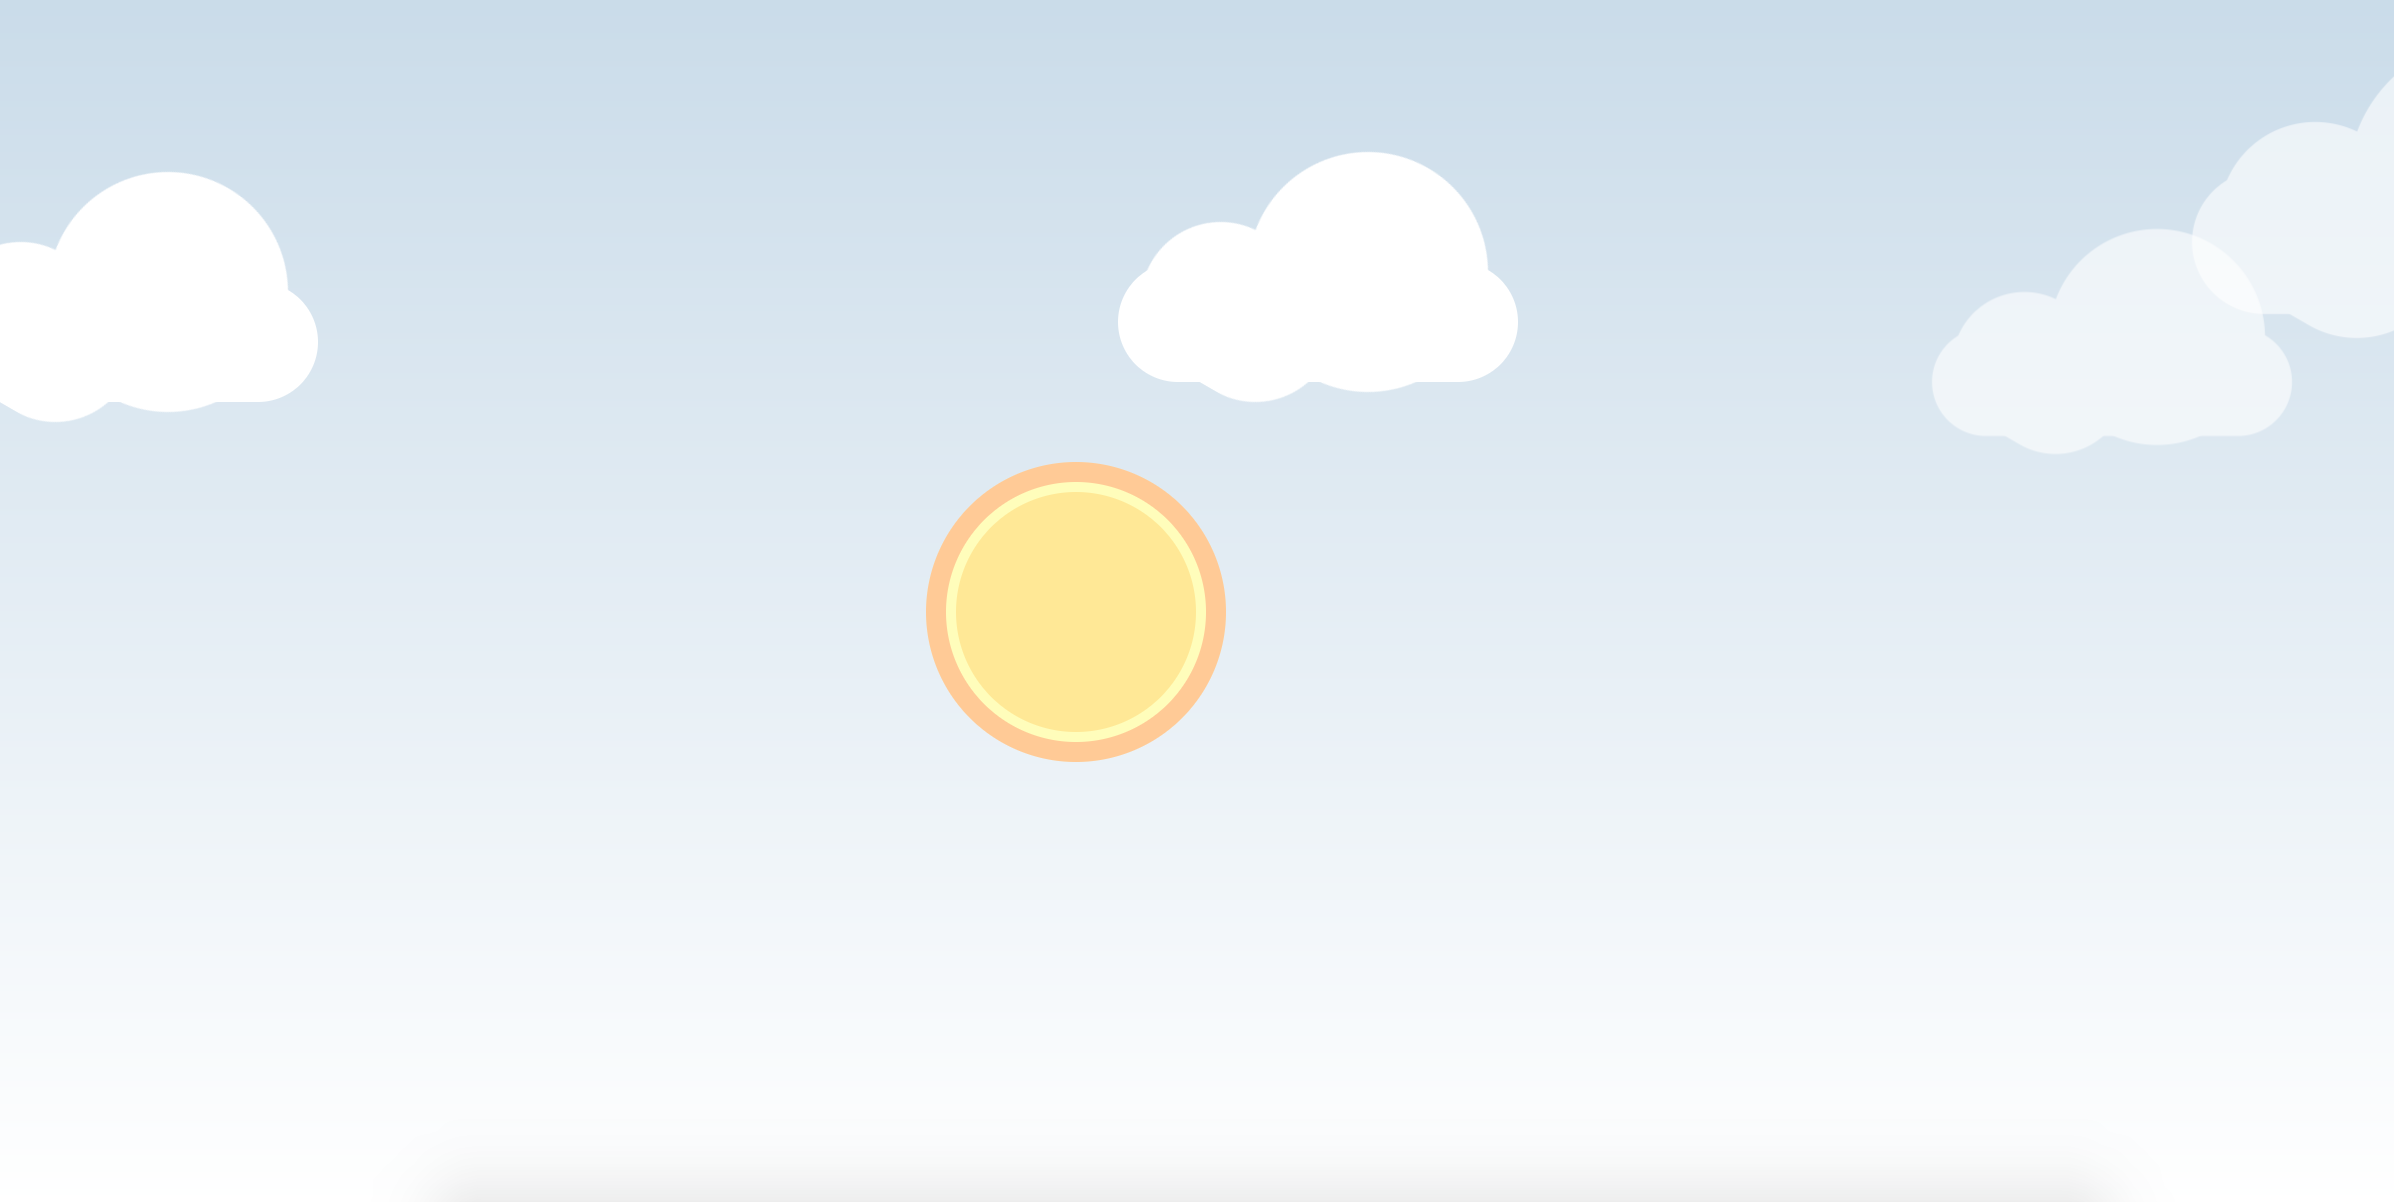
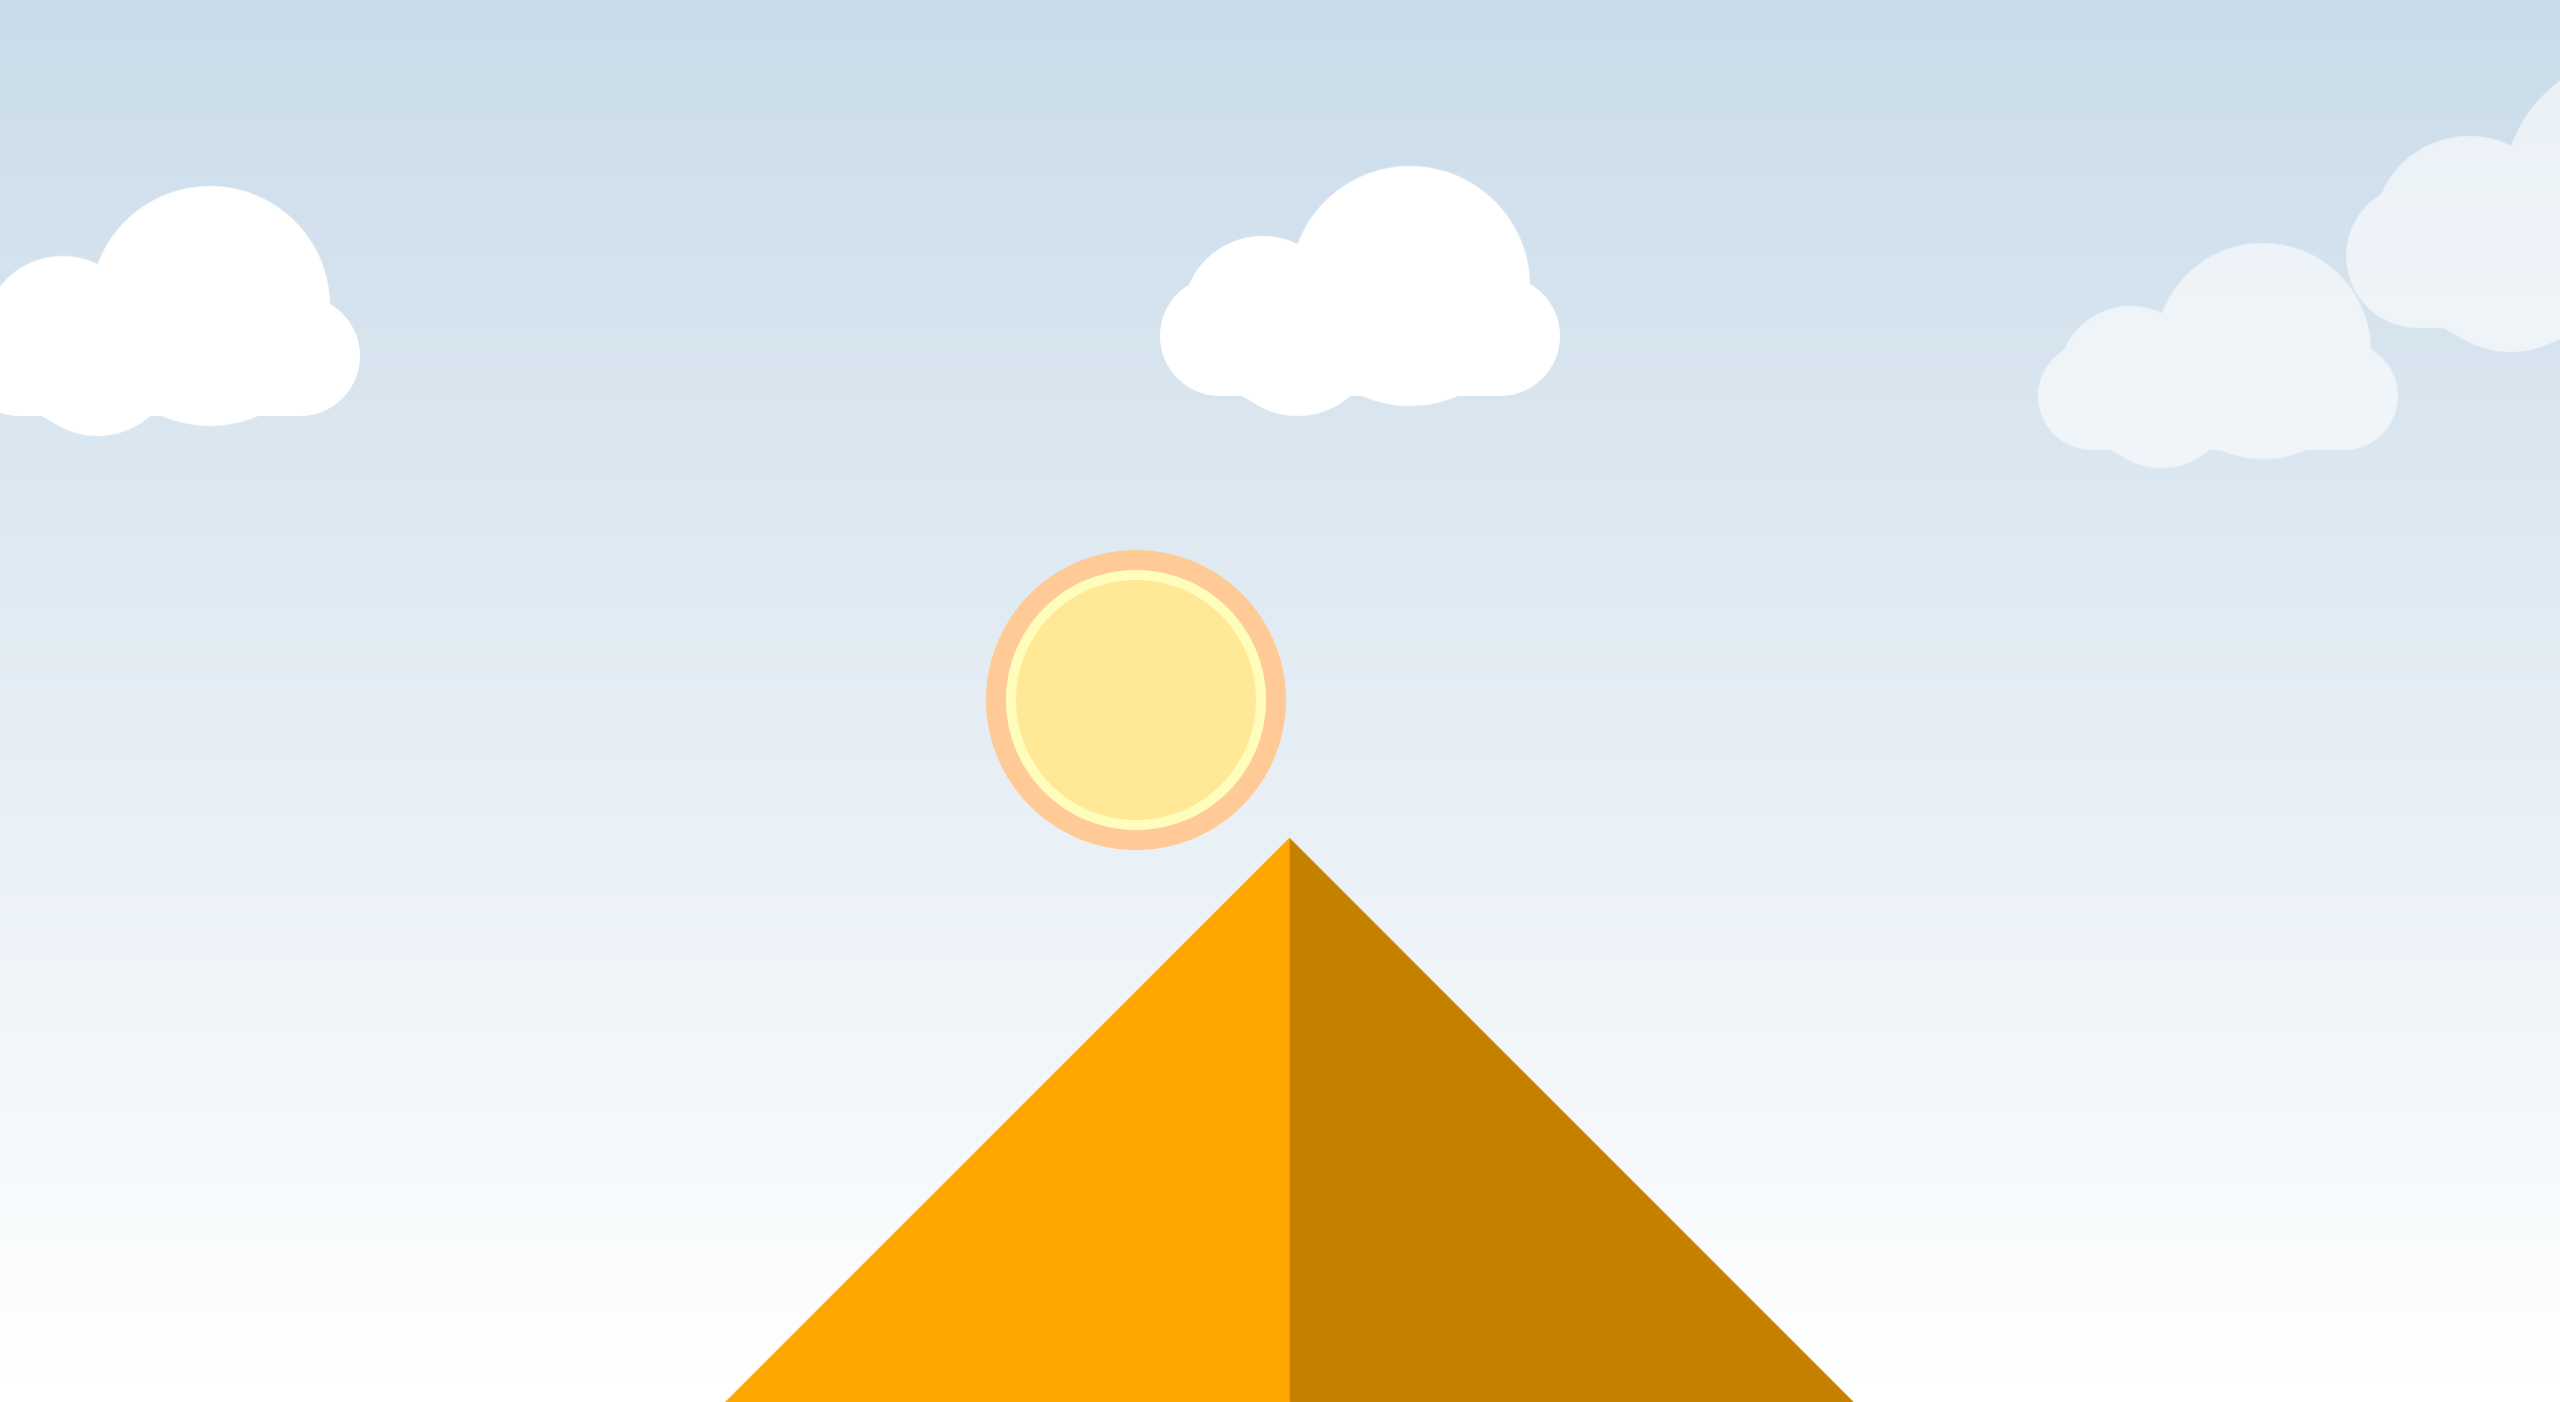
updated readme

diff --git a/README.md b/README.md
@@ -1,6 +1,6 @@
 ## CSS Animated Clouds
 
-#### Pure CSS Animated Clouds, Sky, Sun, and Stars
+#### Pure CSS Animated Clouds, Sky, Sun, Stars, Pyramid, and Aliens 👽
 
 Demo Available [here](https://ceckenrode.github.io/css-clouds/)
 
